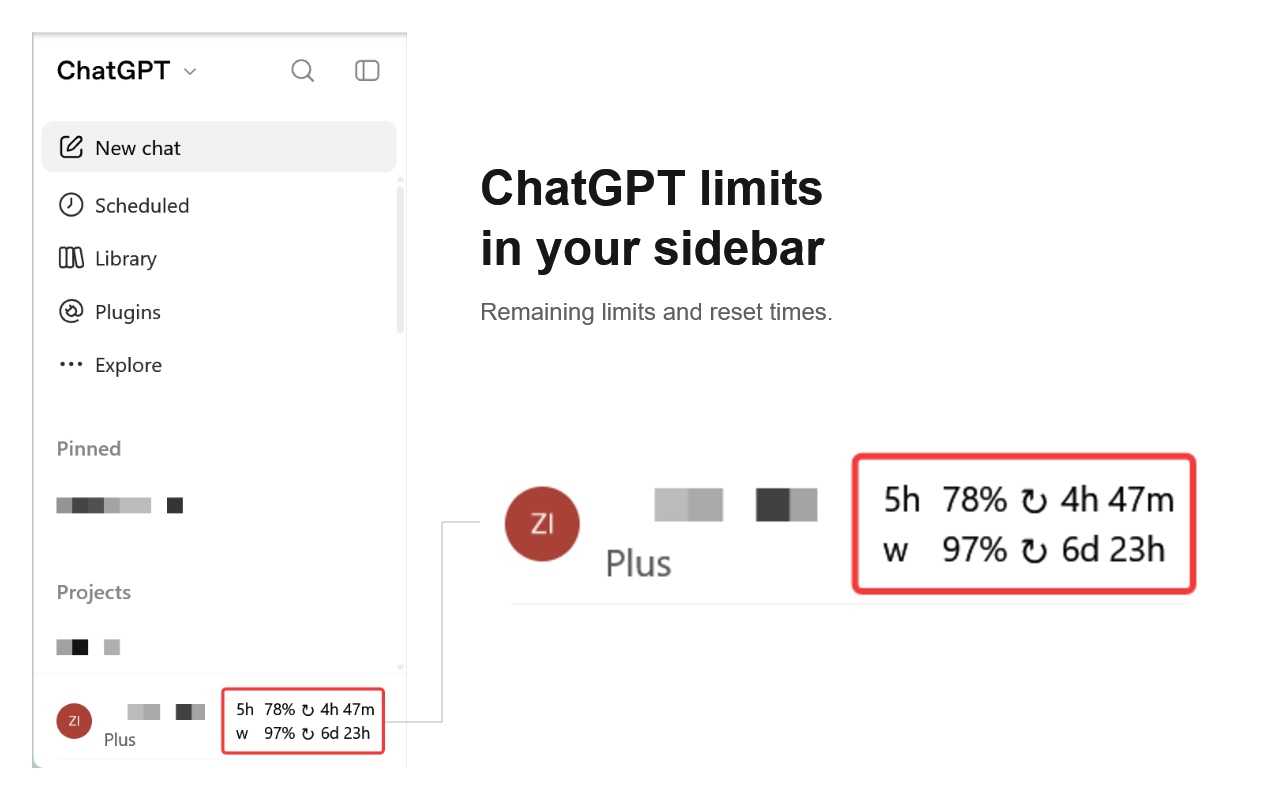
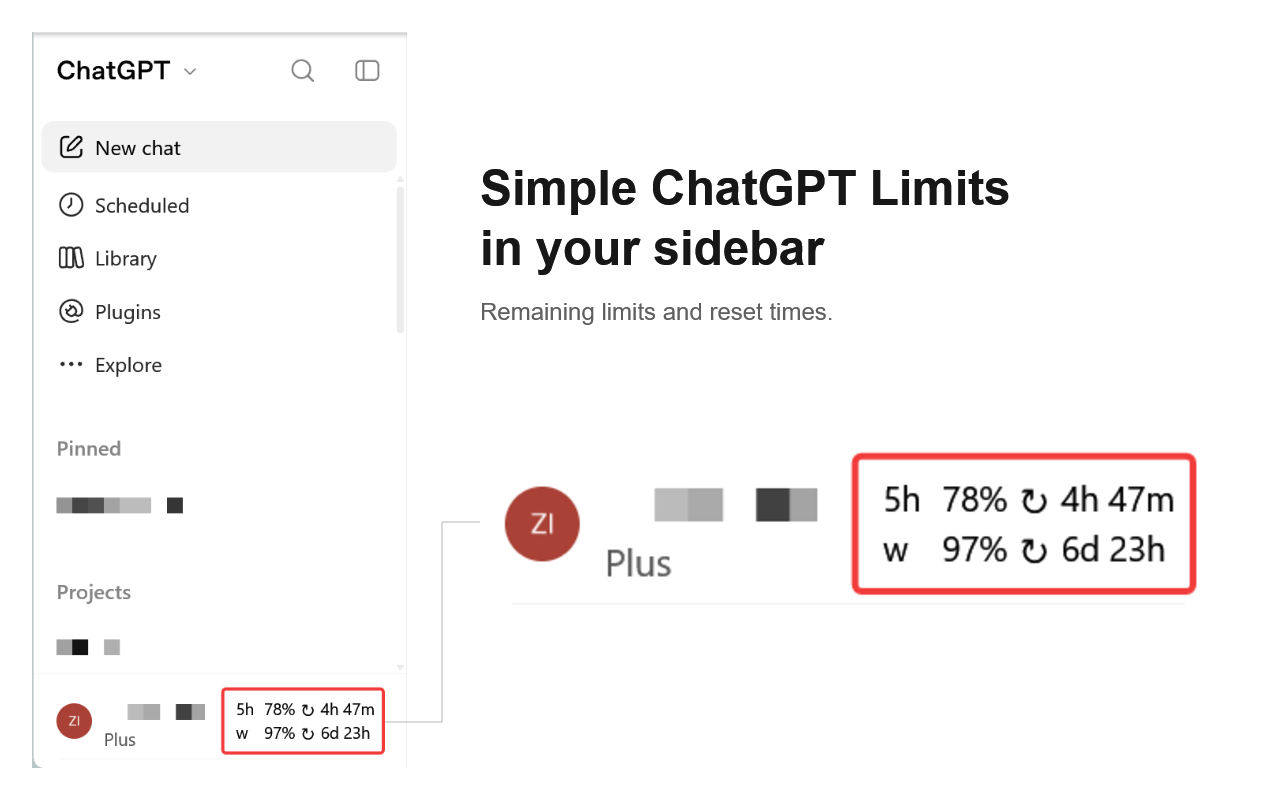
Rename extension to Simple ChatGPT Limits

Changed region(s): [[0.375, 0.1875, 0.8125, 0.2812]]

diff --git a/popup.html b/popup.html
@@ -3,22 +3,22 @@
   <head>
     <meta charset="utf-8">
     <meta name="viewport" content="width=device-width, initial-scale=1">
-    <title>ChatGPT Limits in Sidebar</title>
+    <title>Simple ChatGPT Limits</title>
     <link rel="stylesheet" href="popup.css">
   </head>
   <body>
     <header>
       <img src="icons/icon-48.png" width="48" height="48" alt="">
-      <h1>ChatGPT Limits<br>in Sidebar</h1>
+      <h1>Simple ChatGPT<br>Limits</h1>
     </header>
     <p>See your remaining ChatGPT limits at a glance in the bottom-left sidebar, with no floating panel or setup needed.</p>
     <a class="button" href="https://chatgpt.com/settings/usage?tab=overview" target="_blank" rel="noopener noreferrer">Open limit settings <span aria-hidden="true">↗</span></a>
     <p class="hint">Already have ChatGPT open? Reload it after installing. Sign in and expand the sidebar to see your limits.</p>
     <footer>
       <p>Uses your ChatGPT session to retrieve limits. No analytics or data sent to the developer.</p>
-      <a href="https://github.com/zizhengwu/chatgpt-limits-in-sidebar/blob/main/PRIVACY.md" target="_blank" rel="noopener noreferrer">Privacy</a>
+      <a href="https://github.com/zizhengwu/simple-chatgpt-limits/blob/main/PRIVACY.md" target="_blank" rel="noopener noreferrer">Privacy</a>
       <span aria-hidden="true"> · </span>
-      <a href="https://github.com/zizhengwu/chatgpt-limits-in-sidebar/issues" target="_blank" rel="noopener noreferrer">Support</a>
+      <a href="https://github.com/zizhengwu/simple-chatgpt-limits/issues" target="_blank" rel="noopener noreferrer">Support</a>
       <p>Independent extension. Not affiliated with OpenAI.</p>
     </footer>
   </body>

diff --git a/chatgpt-limits.user.js b/chatgpt-limits.user.js
@@ -1,13 +1,13 @@
 // ==UserScript==
-// @name         ChatGPT limits in sidebar
-// @namespace    https://github.com/zizhengwu/chatgpt-limits-in-sidebar
+// @name         Simple ChatGPT Limits
+// @namespace    https://github.com/zizhengwu/simple-chatgpt-limits
 // @version      1.2.1
 // @description  See your remaining ChatGPT limits at a glance in the bottom-left sidebar, with no floating panel or setup needed.
 // @author       zizhengwu
-// @homepageURL  https://github.com/zizhengwu/chatgpt-limits-in-sidebar
-// @supportURL   https://github.com/zizhengwu/chatgpt-limits-in-sidebar/issues
-// @downloadURL  https://raw.githubusercontent.com/zizhengwu/chatgpt-limits-in-sidebar/main/chatgpt-limits.user.js
-// @updateURL    https://raw.githubusercontent.com/zizhengwu/chatgpt-limits-in-sidebar/main/chatgpt-limits.user.js
+// @homepageURL  https://github.com/zizhengwu/simple-chatgpt-limits
+// @supportURL   https://github.com/zizhengwu/simple-chatgpt-limits/issues
+// @downloadURL  https://raw.githubusercontent.com/zizhengwu/simple-chatgpt-limits/main/chatgpt-limits.user.js
+// @updateURL    https://raw.githubusercontent.com/zizhengwu/simple-chatgpt-limits/main/chatgpt-limits.user.js
 // @match        https://chatgpt.com/*
 // @grant        none
 // @run-at       document-idle

diff --git a/tests/sidebar.html b/tests/sidebar.html
@@ -1,7 +1,7 @@
 <!doctype html>
 <html lang="en">
 <meta charset="utf-8">
-<title>ChatGPT Limits in Sidebar — demonstration</title>
+<title>Simple ChatGPT Limits — demonstration</title>
 <style>
   * { box-sizing: border-box; }
   body { margin: 0; font: 16px/1.5 Arial, sans-serif; color: #172b29; background: #f7faf9; }
@@ -24,7 +24,7 @@
   .caption { margin-top: 46px; color: #72817c; font-size: 13px; }
 </style>
 <main>
-  <div class="eyebrow">CHATGPT LIMITS IN SIDEBAR</div>
+  <div class="eyebrow">SIMPLE CHATGPT LIMITS</div>
   <h1>Your limits, at a glance.</h1>
   <p class="intro">See your remaining ChatGPT limits at a glance in the bottom-left sidebar, with no floating panel or setup needed.</p>
   <div class="demo">

diff --git a/store/LISTING.md b/store/LISTING.md
@@ -1,6 +1,6 @@
 # Chrome Web Store listing
 
-**Name:** ChatGPT Limits in Sidebar
+**Name:** Simple ChatGPT Limits
 
 **Summary:** See your remaining ChatGPT limits at a glance in the bottom-left sidebar, with no floating panel or setup needed.
 
@@ -23,14 +23,14 @@ Independent extension, not affiliated with OpenAI. Changes to ChatGPT may tempor
 - **Remote code:** None. All code is bundled.
 - **Data handled:** Authentication information (session token), website content (limits), and account details included in the session response. Only the token and limit values are used, in memory. Requests go only to ChatGPT.
 - **Data use:** No selling, unrelated use, or use for credit or lending decisions.
-- **Privacy URL:** https://github.com/zizhengwu/chatgpt-limits-in-sidebar/blob/main/PRIVACY.md
+- **Privacy URL:** https://github.com/zizhengwu/simple-chatgpt-limits/blob/main/PRIVACY.md
 
 Publish the privacy file before submitting. Match the dashboard disclosures to this data handling, including data processed only in memory.
 
 ## Links and images
 
-- [Homepage](https://github.com/zizhengwu/chatgpt-limits-in-sidebar)
-- [Support](https://github.com/zizhengwu/chatgpt-limits-in-sidebar/issues)
+- [Homepage](https://github.com/zizhengwu/simple-chatgpt-limits)
+- [Support](https://github.com/zizhengwu/simple-chatgpt-limits/issues)
 - Icon: `icons/icon-128.png`
 - Promotional image: `store/promo-440x280.png`
 - Screenshot: `store/screenshot-1280x800.png` — actual sidebar with a zoomed crop.

diff --git a/README.md b/README.md
@@ -1,4 +1,4 @@
-# ChatGPT limits in sidebar
+# Simple ChatGPT Limits
 
 See your remaining ChatGPT limits at a glance in the bottom-left sidebar, with no floating panel or setup needed.
 
@@ -12,7 +12,7 @@ See your remaining ChatGPT limits at a glance in the bottom-left sidebar, with n
 
 ## Userscript
 
-With Tampermonkey or Violentmonkey installed, [install the script](https://raw.githubusercontent.com/zizhengwu/chatgpt-limits-in-sidebar/main/chatgpt-limits.user.js) and reload ChatGPT.
+With Tampermonkey or Violentmonkey installed, [install the script](https://raw.githubusercontent.com/zizhengwu/simple-chatgpt-limits/main/chatgpt-limits.user.js) and reload ChatGPT.
 
 
-[Privacy](PRIVACY.md) · [Report a bug](https://github.com/zizhengwu/chatgpt-limits-in-sidebar/issues)
+[Privacy](PRIVACY.md) · [Report a bug](https://github.com/zizhengwu/simple-chatgpt-limits/issues)
